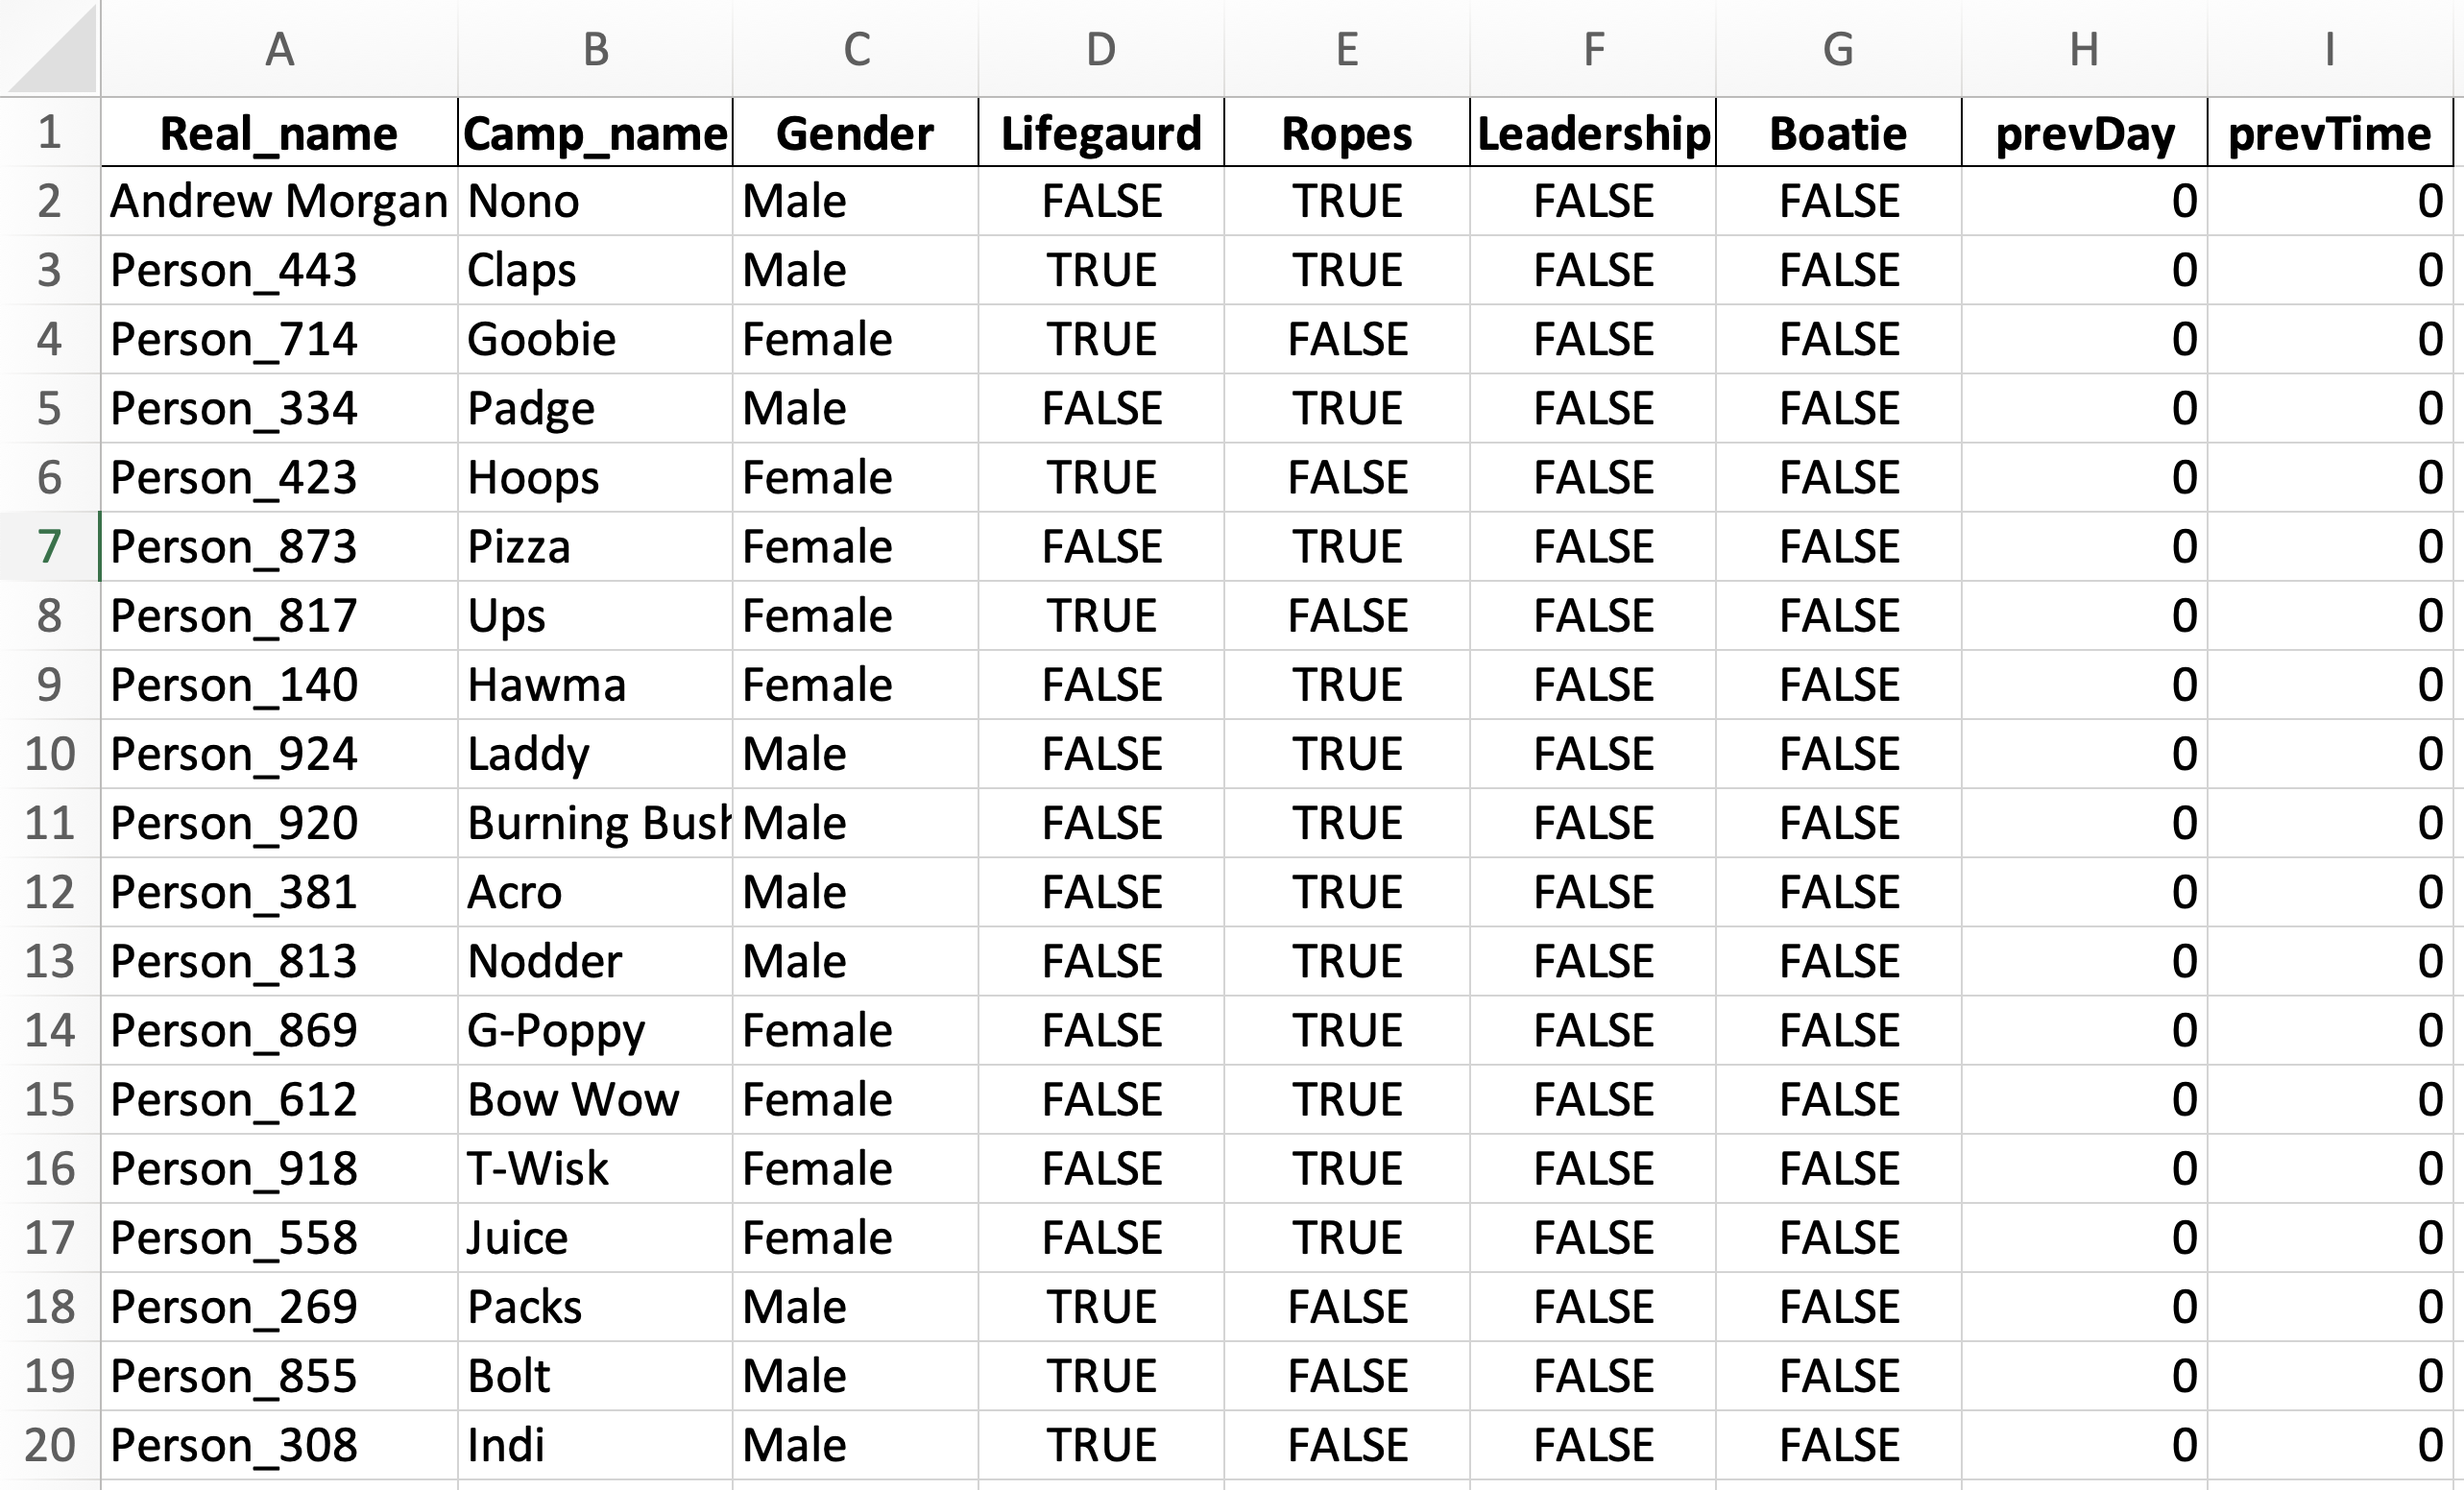
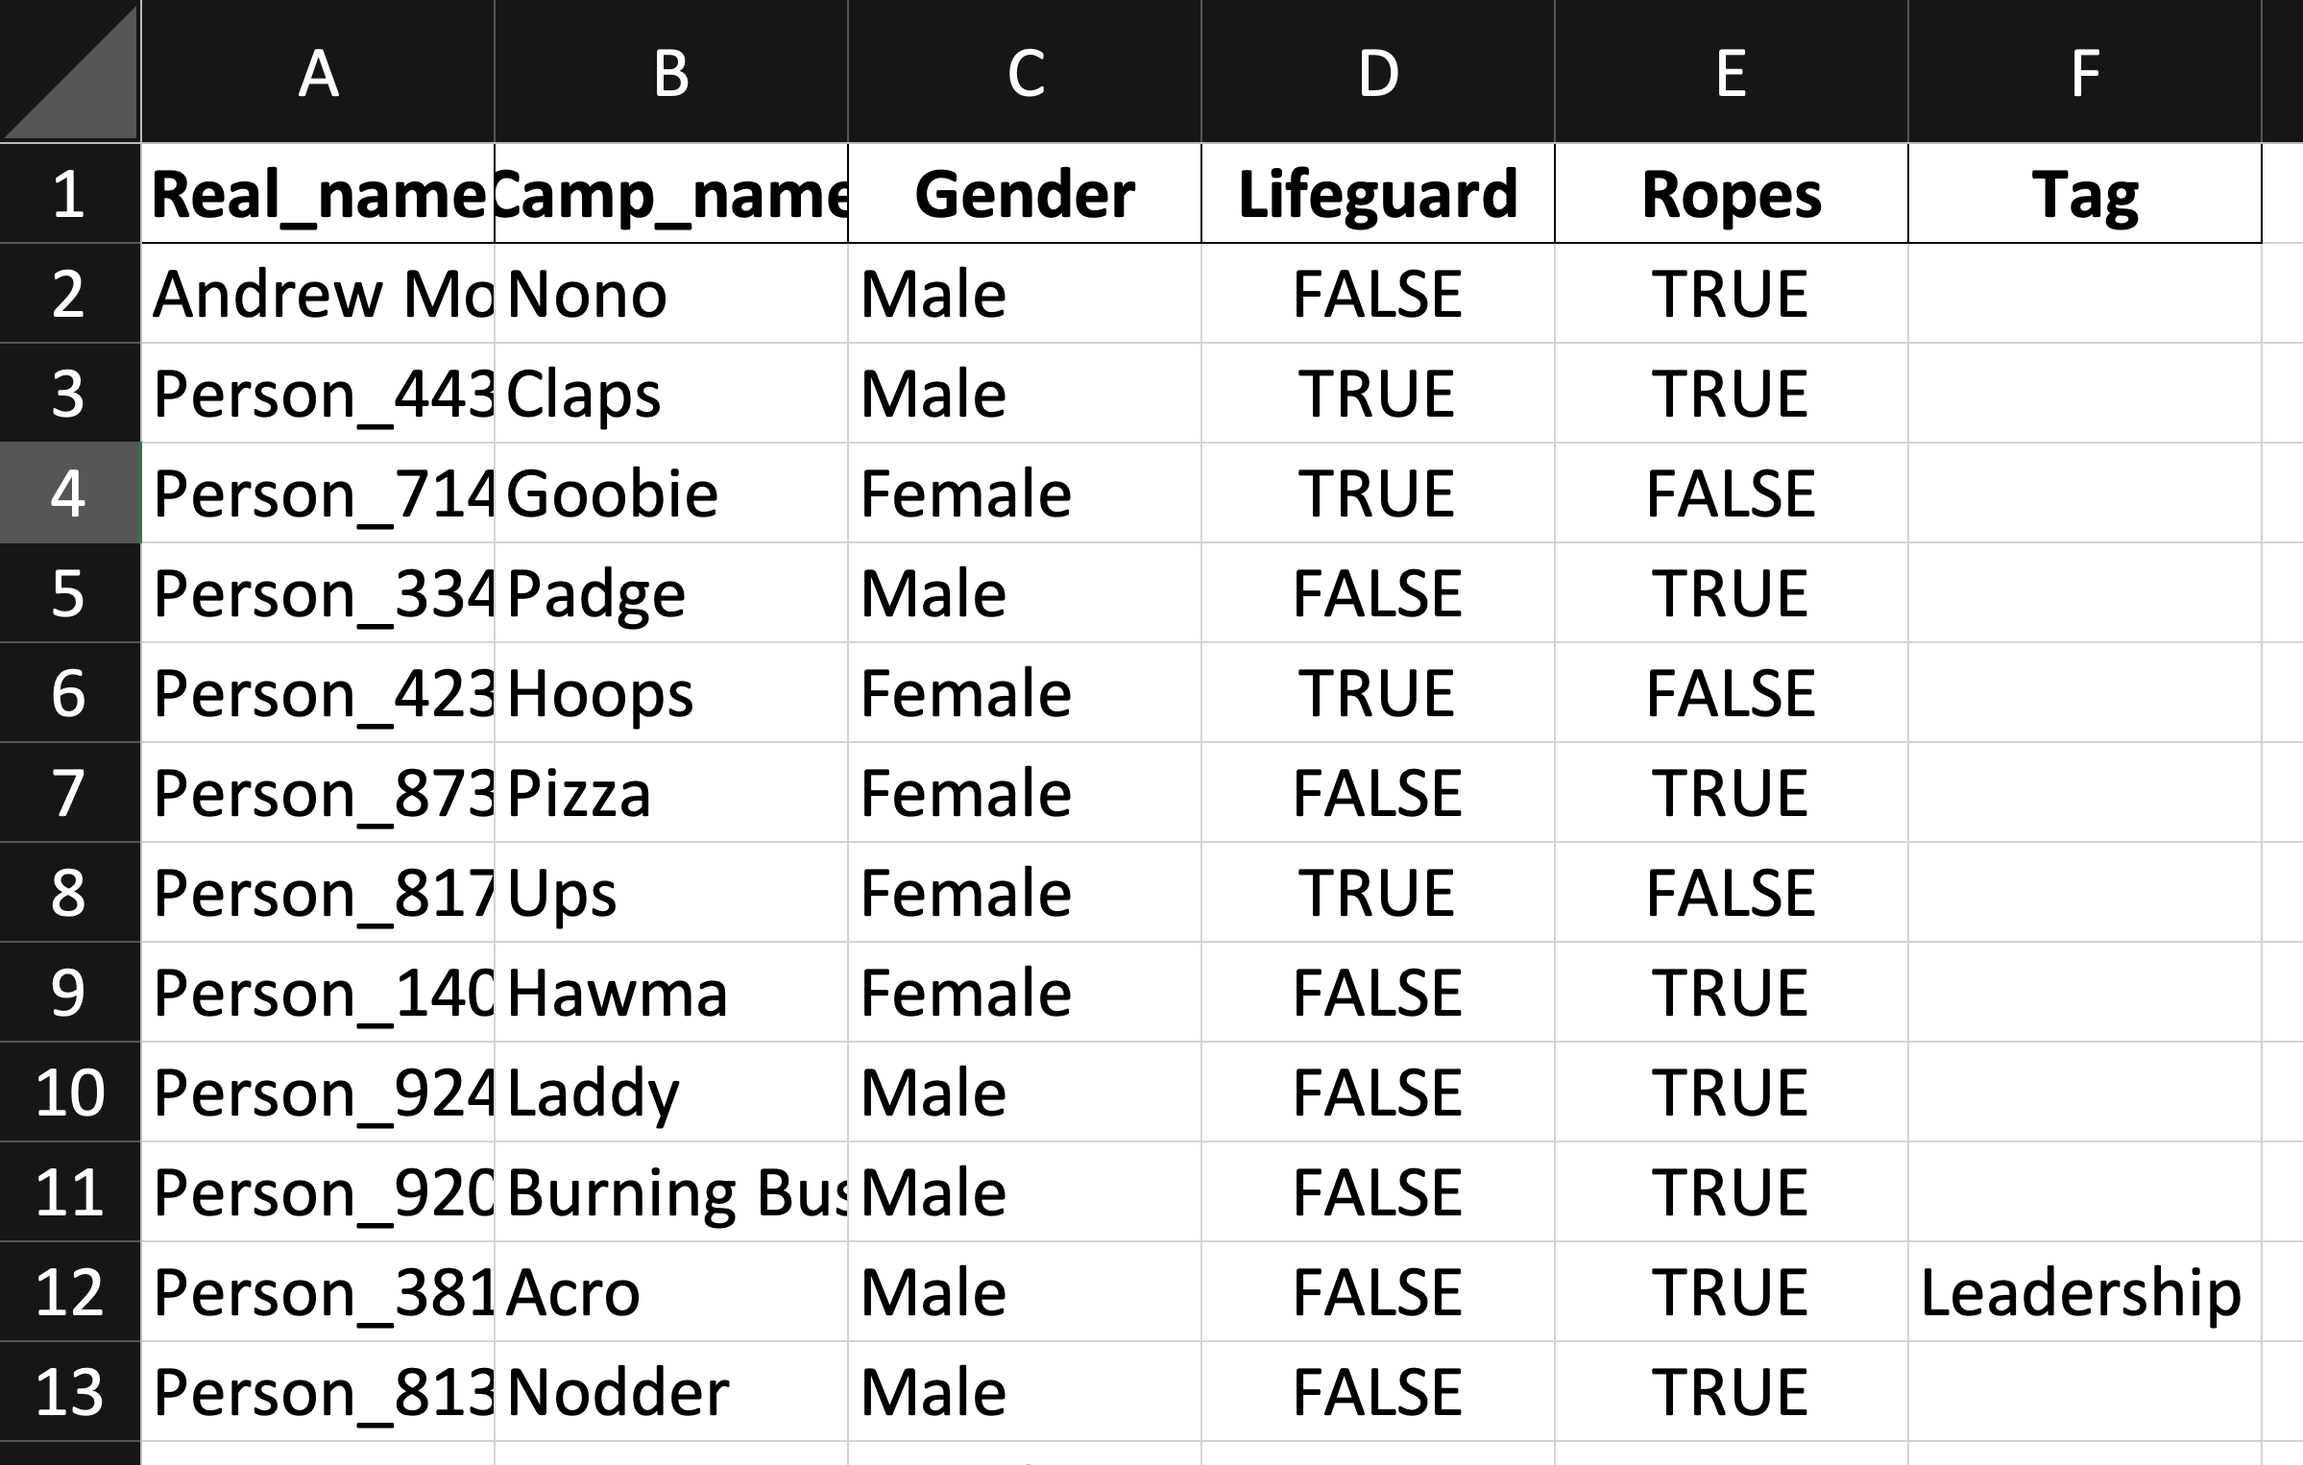
Added Bible study condition to grid algorithm and updated example images

diff --git a/function_def.py b/function_def.py
@@ -116,10 +116,23 @@ def createGrid(sched, staff):
                         noneFound = True
                         found = True
                         continue
+                    
+                    # Extract requirements
+                    req = sched['Require'][i].split(',')
+                    for w in range(len(req)):
+                        req[w] = req[w].strip()
+                        
+                    # Check if they have any tags that make them ineligable
+                    # Still need to check sound/projects and media
+                    if "Leadership" not in req or ss.roster[name]["Role"] not in ["Impact", "Crew", "Cove"]:
+                        tag = nameData["Tag"][nameData.index[0]].strip()
+                        if tag in ["Health Assistant", "Head Lifeguard", "Camp Store"]:
+                            index = (index + 1) % numStaff
+                            continue
 
                     # Check if they have been scheduled recently (1 hour buffer between when they get off and when they can start again)
                     if nameData['prevDay'][nameData.index[0]] == day:
-                        if nameData['prevTime'][nameData.index[0]] + 1 > sched['Start'][i]:
+                        if nameData['prevTime'][nameData.index[0]] + 100 > sched['Start'][i]:
                             index = (index + 1) % numStaff
                             continue
 
@@ -130,26 +143,31 @@ def createGrid(sched, staff):
                         if ss.kcrew[name][days[day]] == "AM'er" and sched["Start"][i] < 1300:
                             index = (index + 1) % numStaff
                             continue
-                        elif ss.kcrew[name][days[day]] == "Aftie" and ((sched["Start"] > 1300 and sched["Start"] < 1830) or (sched["End"] > 1300 and sched["End"] < 1830)):
+                        elif ss.kcrew[name][days[day]] == "Aftie" and ((sched["Start"][i] > 1300 and sched["Start"][i] < 1830) or (sched["End"][i] > 1300 and sched["End"][i] < 1830)):
                             index = (index + 1) % numStaff
                             continue
                             
+                    # Check if they have BStud durring this time (assuming Bstud is 1 hour)
+                    if days[day] == ss.roster[name]["Bstud_day"]:
+                        if (ss.roster[name]["Bstud_time"]+100 > sched["End"][i] - 15) and (ss.roster[name]["Bstud_time"] < sched["End"][i] + 15):
+                            index = (index + 1) % numStaff
+                            continue
+                        if (ss.roster[name]["Bstud_time"]+100 > sched["Start"][i] - 15) and (ss.roster[name]["Bstud_time"] < sched["Start"][i] + 15):
+                            index = (index + 1) % numStaff
+                            continue
+                        
 
                     # Check if they have a 1on1
                     if ss.roster[name]["OneOnOne"]:
                         index = (index + 1) % numStaff
                         continue
 
-                    # Check if they meet the requirements
-                    req = sched['Require'][i].split(',')
-                    for w in range(len(req)):
-                        req[w] = req[w].strip()
 
                     # Check if leadership can be skipped
                     if ("Leadership" not in req) and ss.roster[name]["Role"] == "Leadership":
                         index = (index + 1) % numStaff
                         continue
-                    
+                    # Check if they meet the requirements
                     metReq = True
                     for crit in req:
                         # Must check the roster dict to see if they are workcrew
@@ -172,13 +190,7 @@ def createGrid(sched, staff):
                         index = (index + 1) % numStaff
                         continue
 
-                    # Check if they have any tags that make them ineligable
-                    # Still need to check sound/projects and media
-                    if "Leadership" not in req or ss.roster[name]["Role"] not in ["Impact", "Crew", "Cove"]:
-                        tag = nameData["Tag"][nameData.index[0]].strip()
-                        if tag in ["Health Assistant", "Head Lifeguard", "Camp Store"]:
-                            index = (index + 1) % numStaff
-                            continue
+    
                             
 
 
@@ -191,7 +203,7 @@ def createGrid(sched, staff):
 
                 # add staff to list and update their recent time attributes 
                 else:
-                    dayList.append(name + " " + str(ss.roster[name]["Role"]) + " Lifeguard:" + str(nameData["Lifeguard"][nameData.index[0]]) + " Ropes:" + str(nameData["Ropes"][nameData.index[0]]))
+                    dayList.append(name)
                     staff.loc[nameData.index[0], 'prevDay'] = day
                     staff.loc[nameData.index[0], 'prevTime'] = sched['End'][i]
 

diff --git a/page_folder/formats_page.py b/page_folder/formats_page.py
@@ -70,6 +70,23 @@ with open(kcrew_path, "rb") as file:
 st.download_button(
     label="Download K-crew File",
     data=kcrew_data,
-    file_name="roster_format.xlsx",
+    file_name="kcrew_format.xlsx",
+    mime="application/vnd.openxmlformats-officedocument.spreadsheetml.sheet"
+)
+
+st.write(" ")
+
+# BSTUD FORMAT
+st.write("**Bible Study Format**")
+st.image("images/bstud_example.png")
+bstud_path = "formats/bstud_format_download.xlsx"
+# Read the Excel file in binary mode
+with open(bstud_path, "rb") as file:
+    bstud_data = file.read()
+# Create the download button
+st.download_button(
+    label="Download Bible Study File",
+    data=bstud_data,
+    file_name="bstud_format.xlsx",
     mime="application/vnd.openxmlformats-officedocument.spreadsheetml.sheet"
 )

diff --git a/getTo.py b/getTo.py
@@ -67,6 +67,8 @@ def info_page():
     st.write("Under construction")
     st.title("Assumptions of the Get-to grid algorithm")
     st.write("-All bible studies run for 1 hour")
+    st.write("-K-Crew shifts are: AM'er (6am-12pm), Aftie (1:30-6), Wickie (Workcrew day), and O'fer (off day, but not for get-to's)")
+    st.write("-There is a 1 hour grace period for a staffer after the end of a get-to (cannot be scheduled durring that time)")
 
 
 def contact_page():

diff --git a/page_folder/weekly_edits/upload_roster_page.py b/page_folder/weekly_edits/upload_roster_page.py
@@ -9,6 +9,7 @@ st.write("Set the staff roster for the week")
 
 
 st.write("Please upload roster in the **exact same** format as the one shown below. The order of the columns does not matter, but the names of the columns (case sensitive) do.")
+st.write("**Do not** include boaties in the P-Staff section (or they will be scheduled for get-to's)")
 st.write("Make sure to use **camp names** instead of real names.")
 st.image("images/roster_example.png")
 
